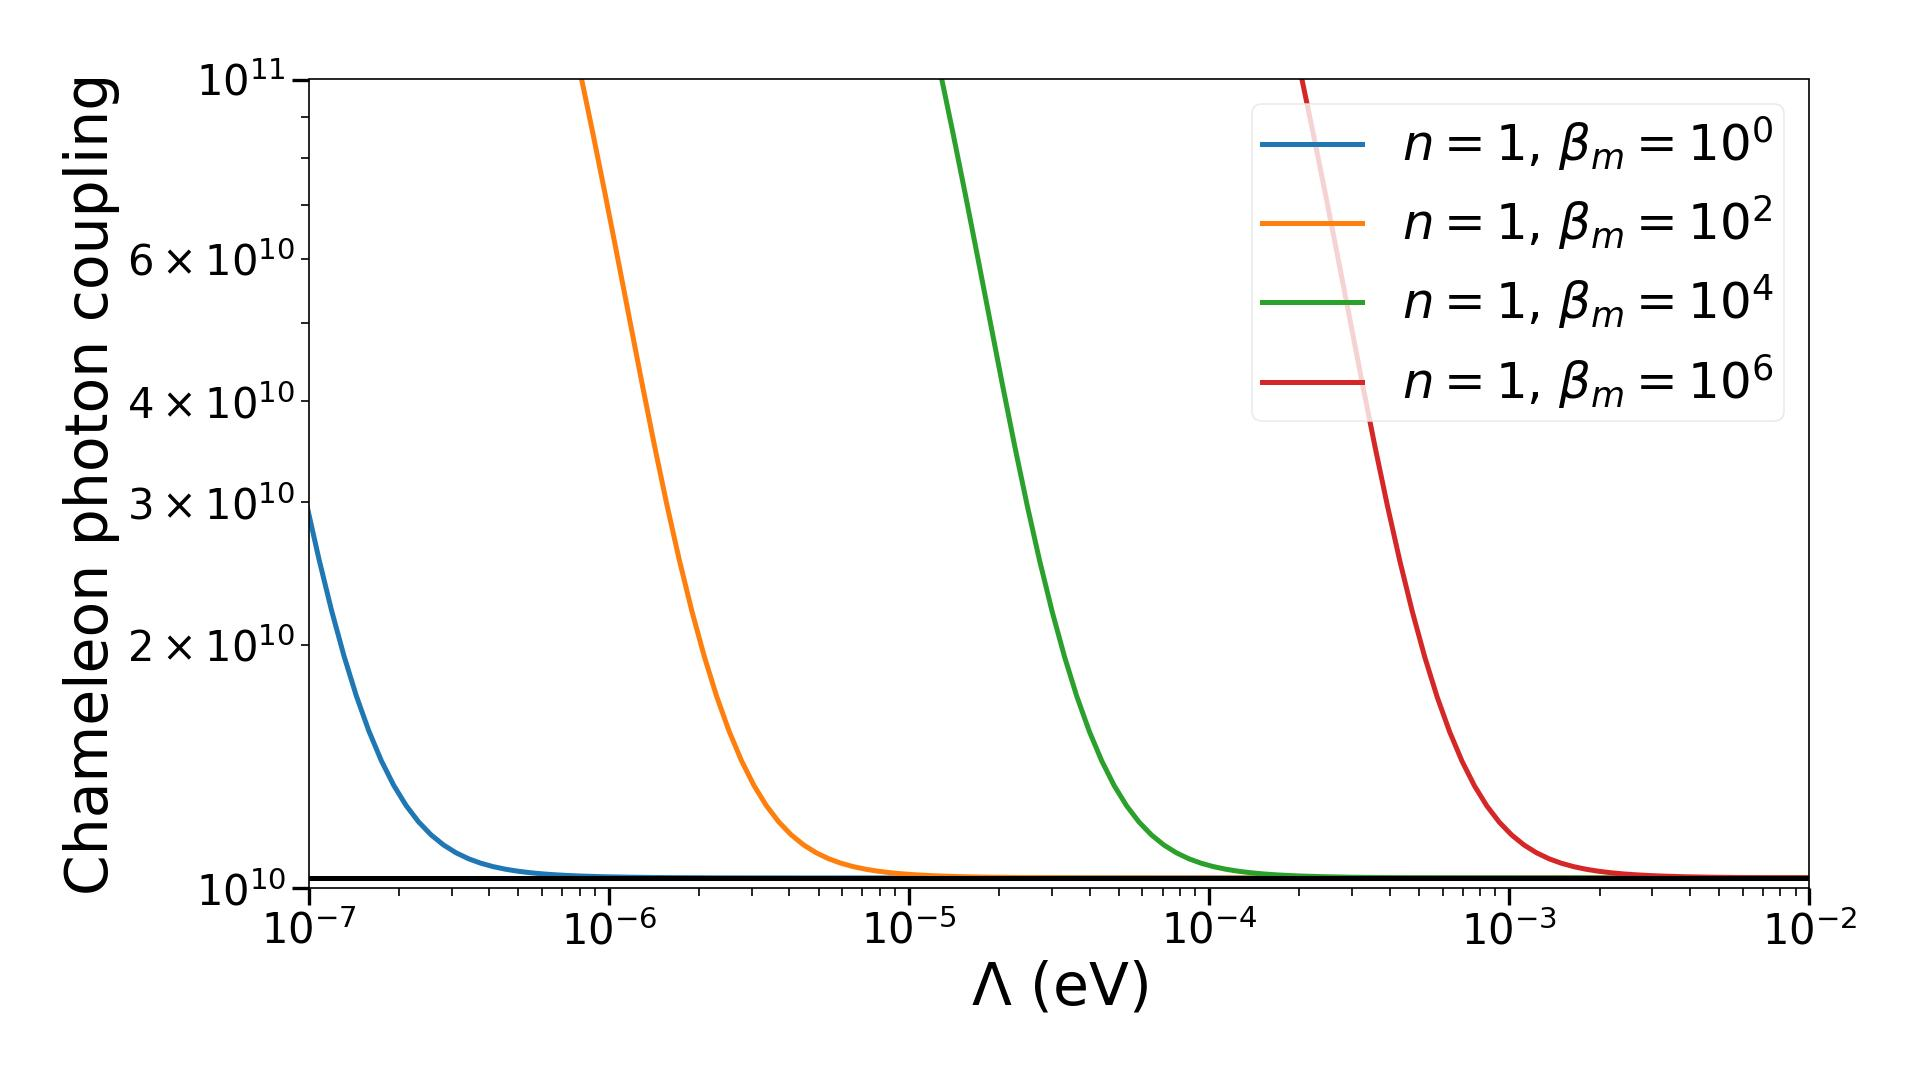
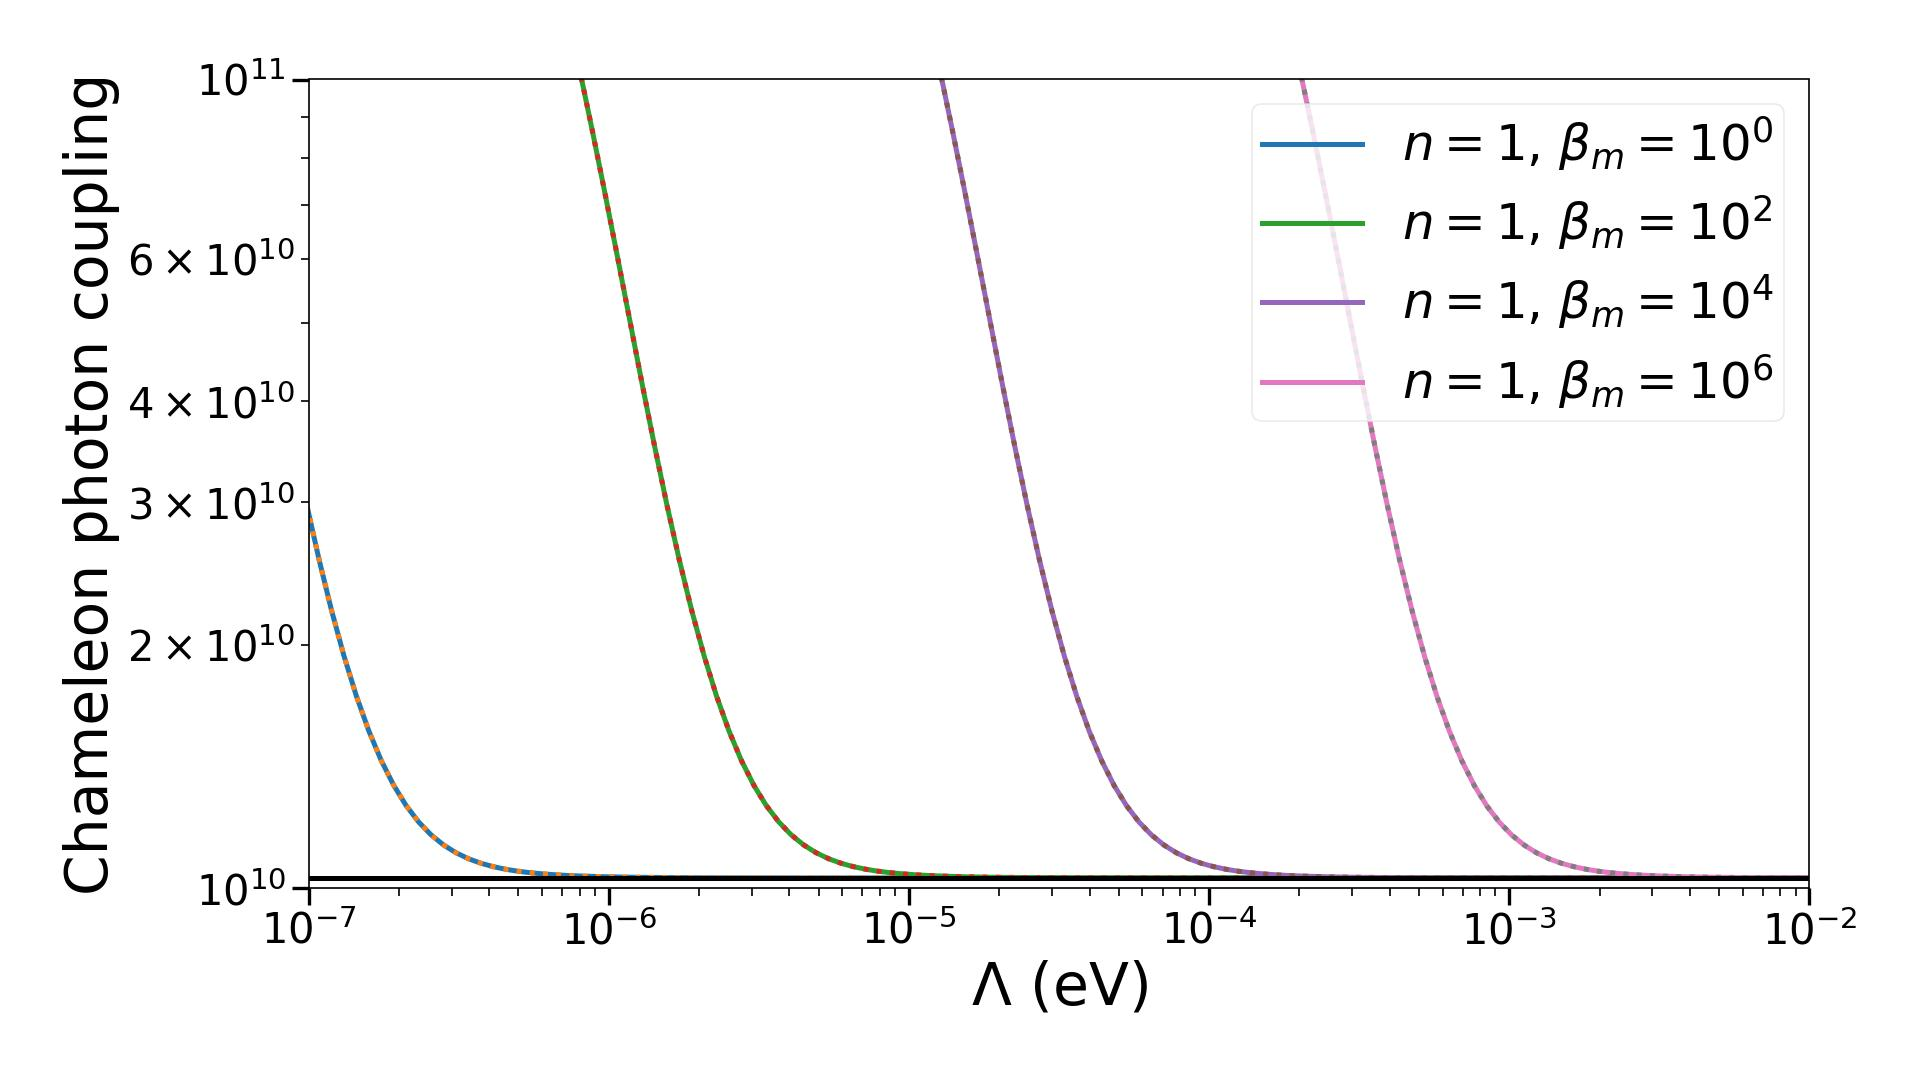
checking lambda bound unchanged

diff --git a/plotElossBounds.py b/plotElossBounds.py
@@ -42,18 +42,30 @@ Lsolar *= J2eV*s2eV
 dat = loadtxt("data/Eloss_Lambda_T--1e0.dat")
 Bg = np.sqrt(3*Lsolar/100/dat[:,1])
 ax2.plot(dat[:,0],Bg, ls='-', label=r'$n=1$, $\beta_m=10^0$')
+dat = loadtxt("data/Eloss_Lambda--1e0.dat")
+Bg = np.sqrt(3*Lsolar/100/dat[:,1])
+ax2.plot(dat[:,0],Bg, ls=':')
 
 dat = loadtxt("data/Eloss_Lambda_T--1e2.dat")
 Bg = np.sqrt(3*Lsolar/100/dat[:,1])
 ax2.plot(dat[:,0],Bg, ls='-', label=r'$n=1$, $\beta_m=10^2$')
+dat = loadtxt("data/Eloss_Lambda--1e2.dat")
+Bg = np.sqrt(3*Lsolar/100/dat[:,1])
+ax2.plot(dat[:,0],Bg, ls=':')
 
 dat = loadtxt("data/Eloss_Lambda_T--1e4.dat")
 Bg = np.sqrt(3*Lsolar/100/dat[:,1])
 ax2.plot(dat[:,0],Bg, ls='-', label=r'$n=1$, $\beta_m=10^4$')
+dat = loadtxt("data/Eloss_Lambda--1e4.dat")
+Bg = np.sqrt(3*Lsolar/100/dat[:,1])
+ax2.plot(dat[:,0],Bg, ls=':')
 
 dat = loadtxt("data/Eloss_Lambda_T--1e6.dat")
 Bg = np.sqrt(3*Lsolar/100/dat[:,1])
 ax2.plot(dat[:,0],Bg, ls='-', label=r'$n=1$, $\beta_m=10^6$')
+dat = loadtxt("data/Eloss_Lambda--1e6.dat")
+Bg = np.sqrt(3*Lsolar/100/dat[:,1])
+ax2.plot(dat[:,0],Bg, ls=':')
 
 ax2.hlines(Bg[-1],dat[0,0],dat[-1,0],color='k')
 
